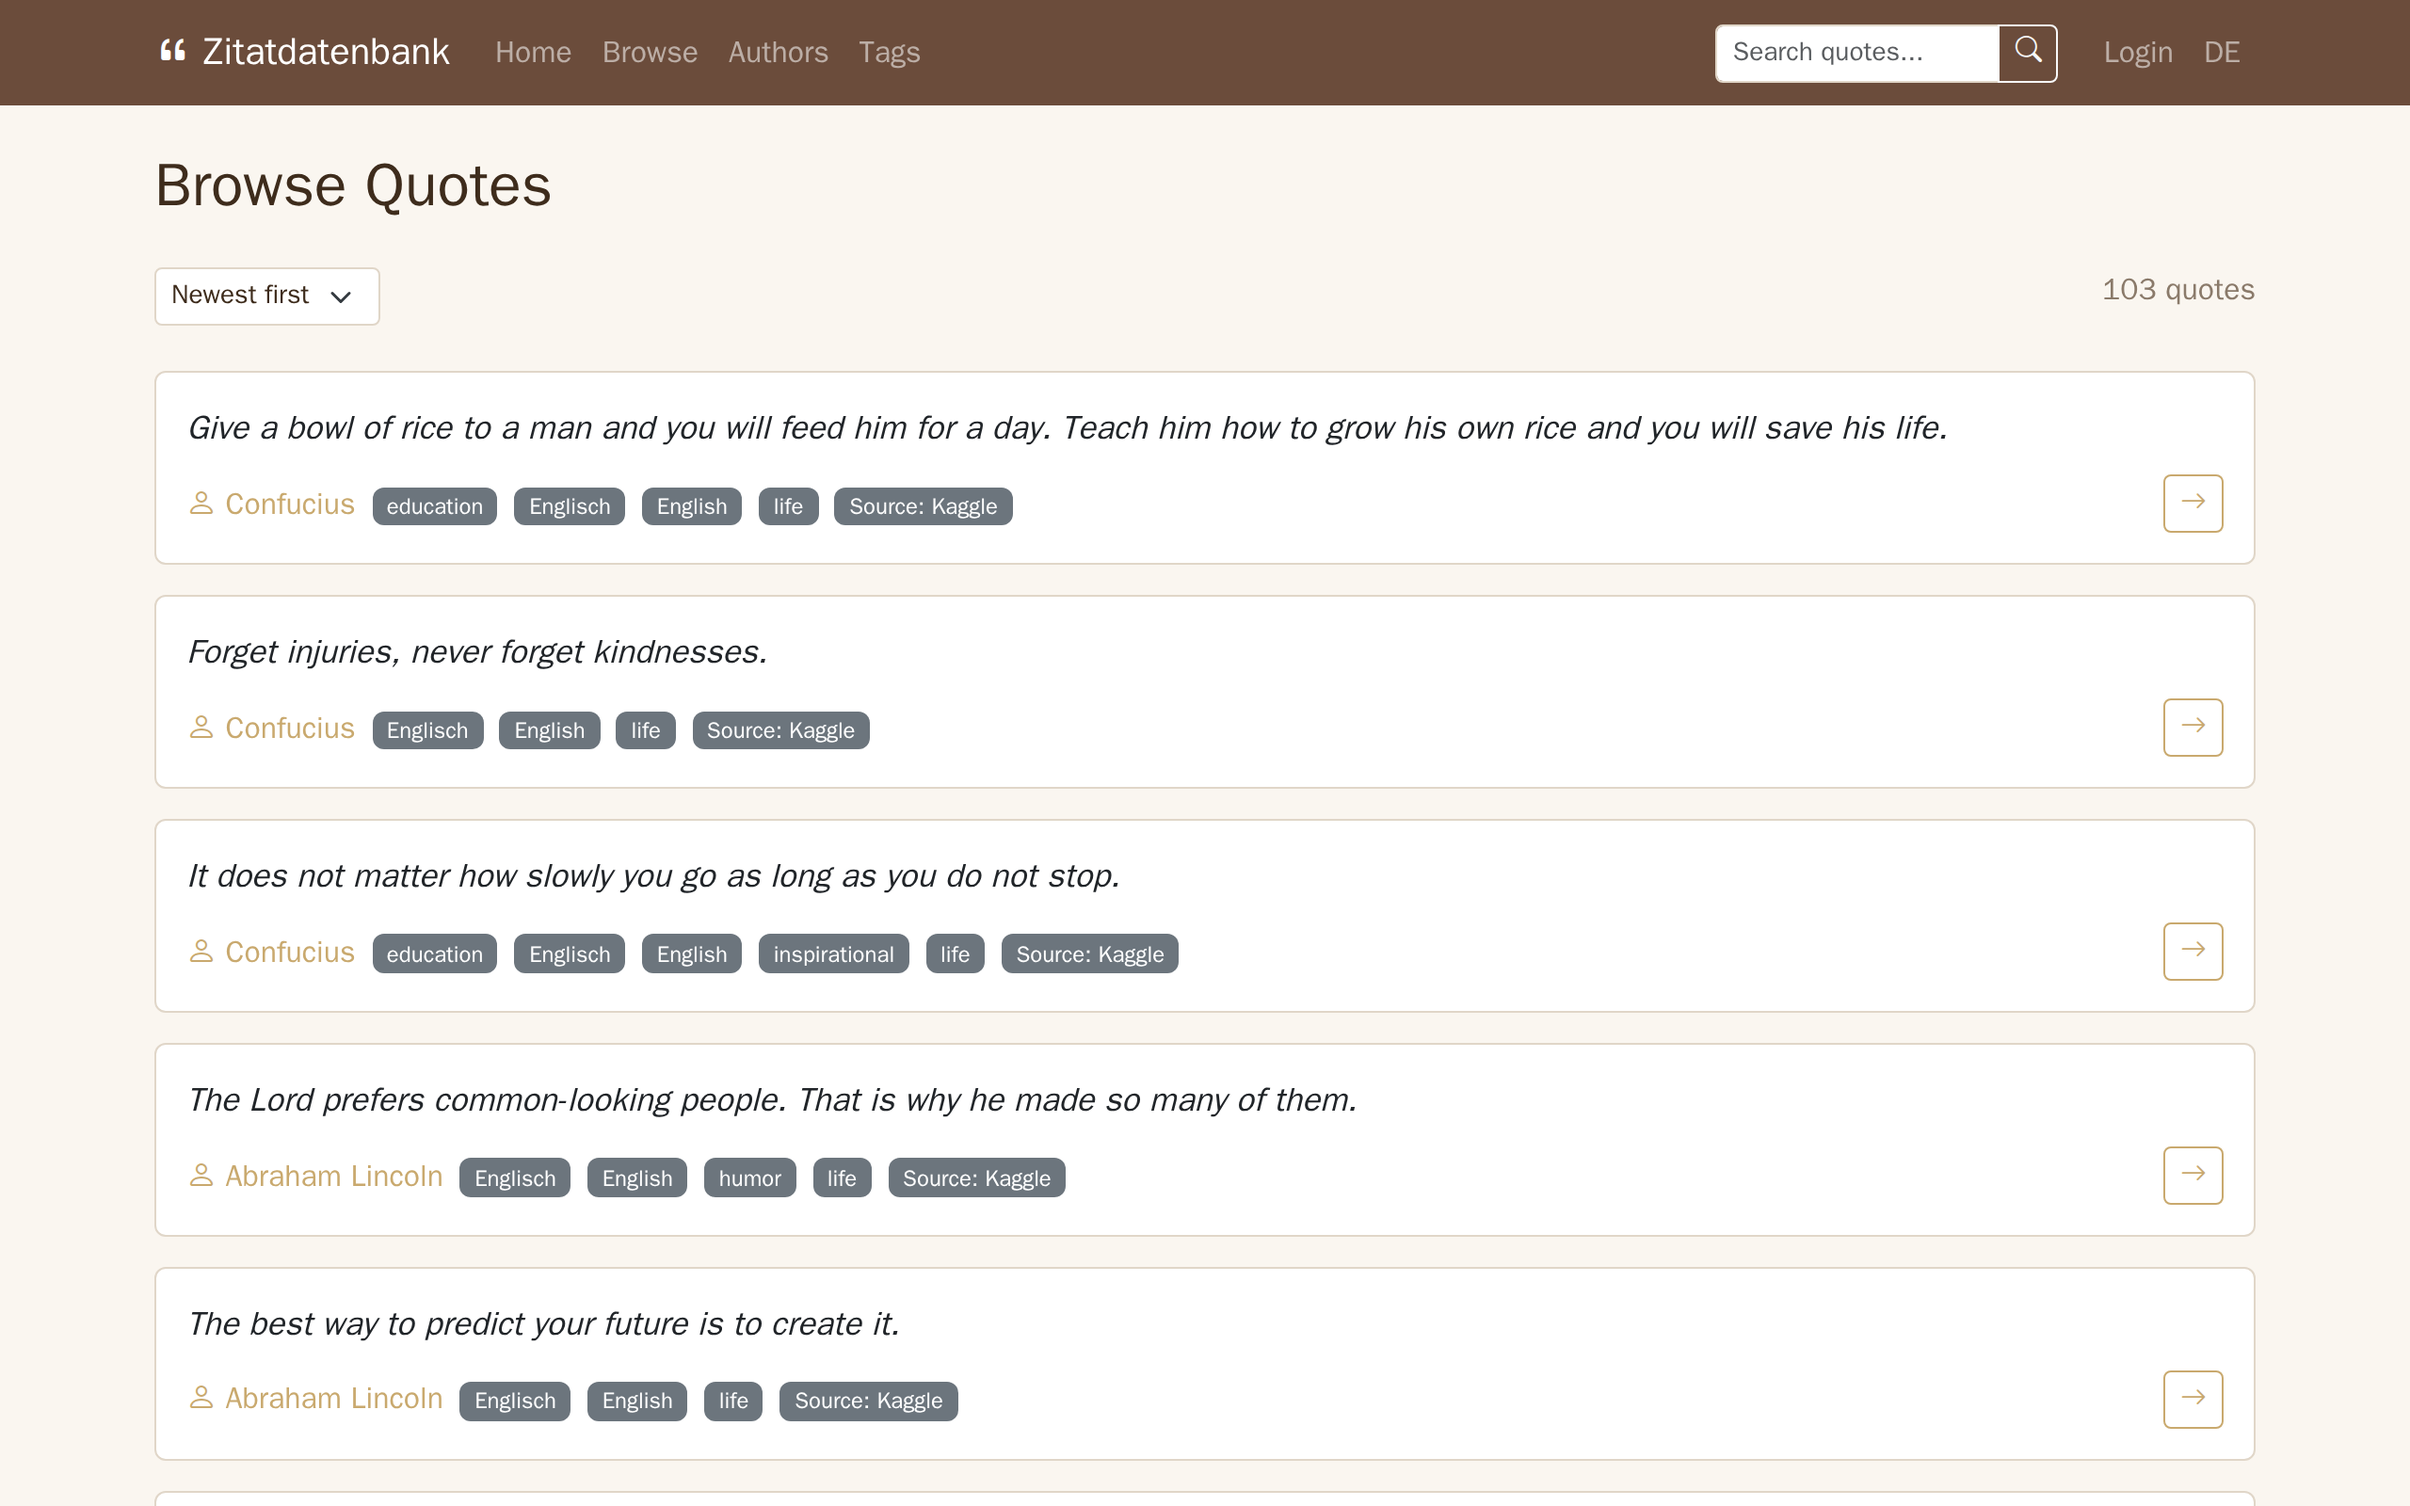
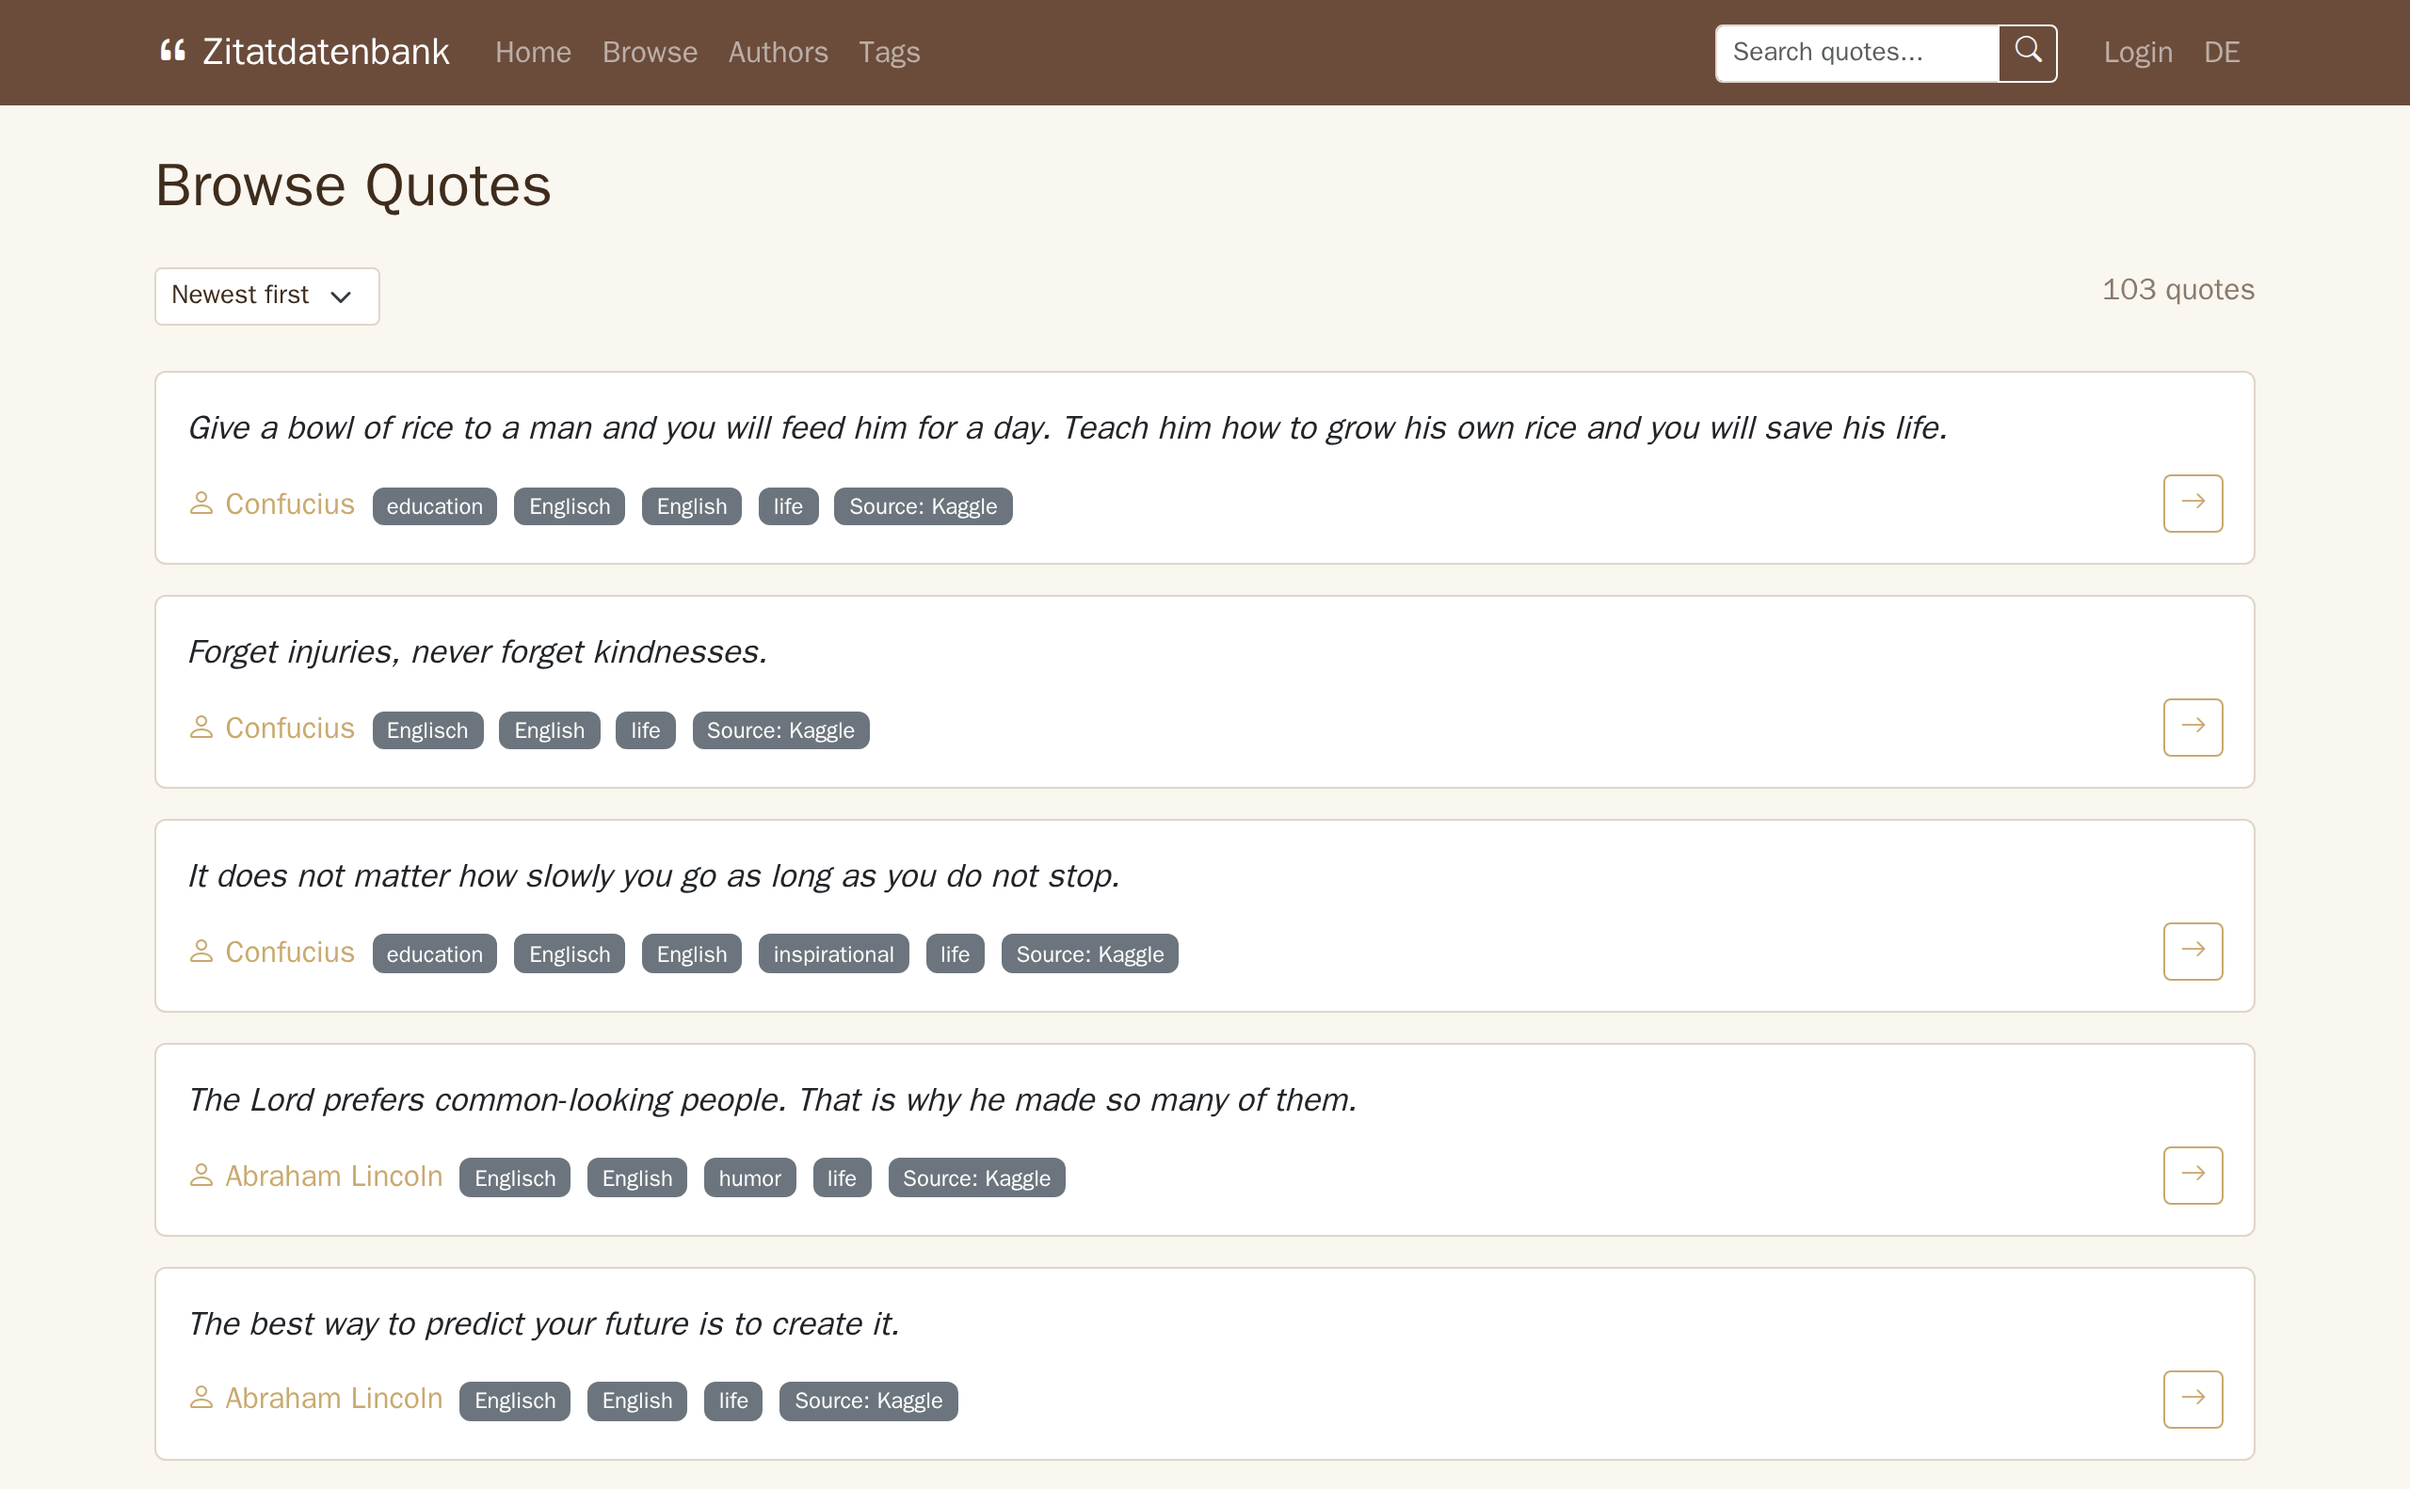
Fix the local-dev steps and crop the cut-off screenshots
The documented quickstart imported the CSV on an empty database and then
started the app normally, so the one-time tag migration replaced the
imported quotes' tags with Deutsch/German. Create the tables and admin
first, then import and run with FLASK_TESTING=1.

The tour now stops viewport shots above the first card or table row the
viewport cuts, and shoots the phone home page in full.

diff --git a/e2e/docs/tour.spec.ts b/e2e/docs/tour.spec.ts
@@ -121,12 +121,13 @@ async function open(ctx: BrowserContext, url: string): Promise<Page> {
 }
 
 /** `clipAbove`: the page from the top down to just above that element.
- * `fullPage` stops at 2400 CSS px. `clipX`: only that element's width (+8 px
+ * `fit`: the viewport down to just above the first of these elements that the
+ * viewport's bottom edge cuts. `fullPage` stops at 2400 CSS px. `clipX`: only that element's width (+8 px
  * each side) - keeps the gradient-heavy theme shots under 400 KB. */
 async function shoot(
   page: Page,
   name: string,
-  opts: { fullPage?: boolean; clipAbove?: string; clipX?: string } = {},
+  opts: { fullPage?: boolean; clipAbove?: string; fit?: string; clipX?: string } = {},
 ): Promise<void> {
   // Finishes the typing animation and lets toasts time out.
   await page.clock.runFor(60_000)
@@ -141,6 +142,13 @@ async function shoot(
     const box = await page.locator(opts.clipAbove).first().boundingBox()
     if (!box) throw new Error(`[docs] ${opts.clipAbove} is not on the page`)
     clip = { x: 0, y: 0, width, height: Math.min(2400, Math.floor(box.y) - 8) }
+  } else if (opts.fit) {
+    const vh = page.viewportSize()!.height
+    const tops = await page.locator(opts.fit).evaluateAll(
+      (els, vh) => els.map((e) => e.getBoundingClientRect()).filter((r) => r.bottom > vh).map((r) => r.top),
+      vh,
+    )
+    clip = { x: 0, y: 0, width, height: Math.floor(Math.min(vh, ...tops)) }
   } else if (opts.fullPage) {
     const height = await page.evaluate(() => document.documentElement.scrollHeight)
     clip = { x: 0, y: 0, width, height: Math.min(2400, height) }
@@ -186,7 +194,7 @@ test('home on a phone', async ({ browser }, info) => {
     await expect(page.getByText('Random Quote')).toBeVisible()
     await expect(page.locator('.navbar-toggler')).toBeVisible()
     await expect(page.locator('.quote-text')).toContainText('Instead of cursing the darkness')
-    await shoot(page, 'public-home.mobile')
+    await shoot(page, 'public-home.mobile', { fullPage: true })
   } finally {
     await ctx.close()
   }
@@ -196,7 +204,7 @@ test('browse', async () => {
   const page = await open(guest, '/browse')
   await heading(page, 'Browse Quotes')
   await expect(page.locator('.quote-text').first()).toBeVisible()
-  await shoot(page, 'public-browse')
+  await shoot(page, 'public-browse', { fit: '.card' })
 })
 
 test('browse by tag', async () => {
@@ -224,7 +232,7 @@ test('search', async () => {
   const page = await open(guest, '/search?q=life')
   await heading(page, /Search results for/)
   await expect(page.locator('.quote-text').first()).toBeVisible()
-  await shoot(page, 'public-search')
+  await shoot(page, 'public-search', { fit: '.card' })
 })
 
 test('search without results', async () => {
@@ -269,7 +277,7 @@ test('admin quotes', async () => {
   const page = await open(admin, '/admin/quotes')
   await heading(page, 'Manage Quotes')
   await expect(page.locator('table tbody tr').first()).toBeVisible()
-  await shoot(page, 'admin-quotes')
+  await shoot(page, 'admin-quotes', { fit: 'tbody tr' })
 })
 
 test('admin edit quote', async () => {
@@ -282,7 +290,7 @@ test('admin edit quote', async () => {
 test('admin tags', async () => {
   const page = await open(admin, '/admin/tags')
   await heading(page, 'Manage Tags')
-  await shoot(page, 'admin-tags')
+  await shoot(page, 'admin-tags', { fit: 'tbody tr' })
 })
 
 test('admin settings', async () => {

diff --git a/README.md b/README.md
@@ -23,7 +23,7 @@ Eine mehrsprachige (DE/EN) Webanwendung zum Durchsuchen, Suchen und Verwalten ei
 
 ## Screenshots
 
-<img src="docs/screenshots/public-browse.png" alt="Zitate durchsuchen: Liste mit Sortierung, Tags und Paginierung" width="800">
+<img src="docs/screenshots/public-browse.png" alt="Zitate durchsuchen: Liste mit Sortierung und Tags" width="800">
 <img src="docs/screenshots/public-quote.png" alt="Zitatdetail mit Tags und weiteren Zitaten desselben Autors" width="800">
 <img src="docs/screenshots/admin-settings-themes.png" alt="Admin-Einstellungen: Theme-Auswahl mit Farb- und Effektanpassung" width="800">
 <img src="docs/screenshots/theme-kosmos.png" alt="Zitatdetail im animierten Theme Kosmos" width="800">
@@ -89,10 +89,14 @@ python3 -m pytest
 
 # Lokal starten (SQLite unter instance/dev.db, Admin admin/admin)
 cd app
-export SECRET_KEY=dev-secret SQLALCHEMY_DATABASE_URI=sqlite:///dev.db ADMIN_PASSWORD=admin
+export SECRET_KEY=dev-secret SQLALCHEMY_DATABASE_URI=sqlite:///dev.db
+python -m flask create-admin --username admin --password admin   # erster Start legt die Tabellen an
+export FLASK_TESTING=1   # ab hier ohne Startsequenz (sonst überschreibt die Tag-Migration die Tags der CSV-Zitate)
 python -m flask import-csv ../e2e/docs/fixtures/quotes-en.csv --default-tags "English,Englisch,Source: Kaggle"
 python -m flask run      # http://localhost:5000
 ```
+
+Diese Datenbank immer mit `FLASK_TESTING=1` starten: Ohne die Variable ersetzt die einmalige Tag-Migration beim nächsten Start die Tags aller importierten Zitate durch Deutsch/German/Quelle: Zitatdatenbank.
 
 `python -m flask`, nicht `flask`: Wegen `app/__init__.py` findet das `flask`-Skript die Module in `app/` nicht.
 
@@ -203,7 +207,7 @@ A multilingual (DE/EN) web application for browsing, searching, and managing a c
 
 ## Screenshots
 
-<img src="docs/screenshots/public-browse.png" alt="Browse quotes: list with sorting, tags and pagination" width="800">
+<img src="docs/screenshots/public-browse.png" alt="Browse quotes: list with sorting and tags" width="800">
 <img src="docs/screenshots/public-quote.png" alt="Quote detail with tags and more quotes by the same author" width="800">
 <img src="docs/screenshots/admin-settings-themes.png" alt="Admin settings: theme picker with color and effect customization" width="800">
 <img src="docs/screenshots/theme-kosmos.png" alt="Quote detail in the animated Kosmos theme" width="800">
@@ -269,10 +273,14 @@ python3 -m pytest
 
 # Run locally (SQLite in instance/dev.db, admin admin/admin)
 cd app
-export SECRET_KEY=dev-secret SQLALCHEMY_DATABASE_URI=sqlite:///dev.db ADMIN_PASSWORD=admin
+export SECRET_KEY=dev-secret SQLALCHEMY_DATABASE_URI=sqlite:///dev.db
+python -m flask create-admin --username admin --password admin   # first start creates the tables
+export FLASK_TESTING=1   # skip the startup sequence from here on (its tag migration would overwrite the CSV quotes' tags)
 python -m flask import-csv ../e2e/docs/fixtures/quotes-en.csv --default-tags "English,Englisch,Source: Kaggle"
 python -m flask run      # http://localhost:5000
 ```
+
+Always start this database with `FLASK_TESTING=1`: without it, the one-time tag migration replaces the tags of every imported quote with Deutsch/German/Quelle: Zitatdatenbank on the next start.
 
 Use `python -m flask`, not `flask`: because of `app/__init__.py` the `flask` script cannot import the modules in `app/`.
 

diff --git a/CLAUDE.md b/CLAUDE.md
@@ -9,7 +9,9 @@ self-hosted, gunicorn in Docker. README.md (German first, then English) is the u
 ```bash
 python3 -m pytest                       # tests (conftest sets FLASK_TESTING, SQLite in-memory)
 # local dev server, run in app/ (SQLite in instance/dev.db, admin admin/admin)
-export SECRET_KEY=dev-secret SQLALCHEMY_DATABASE_URI=sqlite:///dev.db ADMIN_PASSWORD=admin
+export SECRET_KEY=dev-secret SQLALCHEMY_DATABASE_URI=sqlite:///dev.db
+python -m flask create-admin --username admin --password admin   # startup sequence creates the tables
+export FLASK_TESTING=1                  # from now on: no startup sequence → no tag migration (see Invariants)
 python -m flask import-csv ../e2e/docs/fixtures/quotes-en.csv --default-tags "English,Englisch,Source: Kaggle"
 python -m flask run
 # docs screenshots: throwaway stack + Playwright tour (needs `npm ci` + chromium in e2e/)
